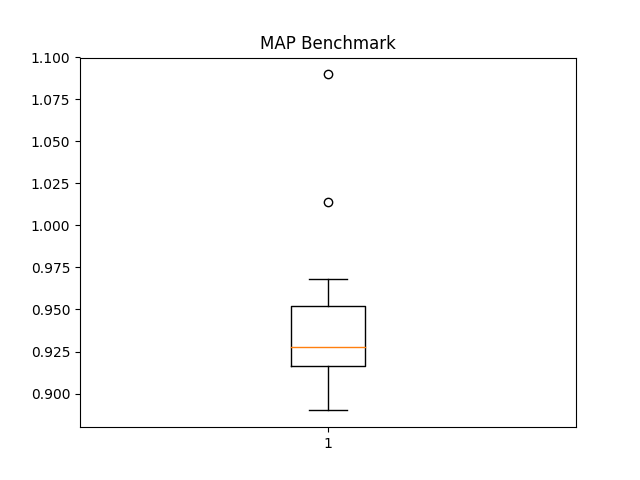
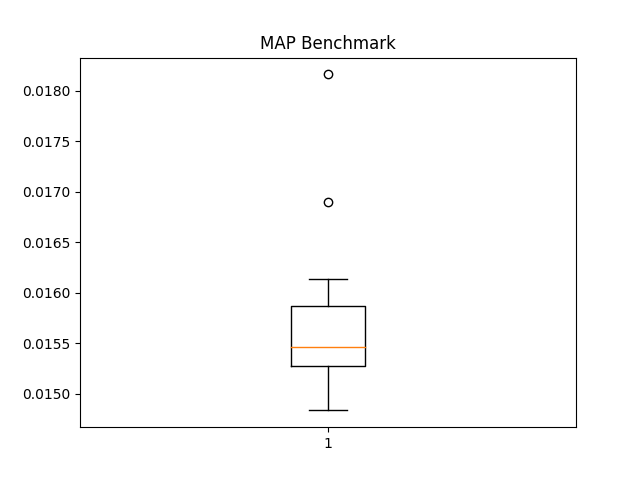
adicionando tratamento para minutos

diff --git a/apps/evaluators/MAP/analyzer/benchmark.py b/apps/evaluators/MAP/analyzer/benchmark.py
@@ -11,53 +11,49 @@ if not os.path.exists(directory):
 
 def bench_gLine():
     allBenchmarks = BenchMAP.objects.all()
-    benchmarkTimes = [divmod((benchmark.finished_at - benchmark.started_at).total_seconds(), 60) for benchmark in allBenchmarks]
-    benchmarkTotalTime = [(benchmark.finished_at - benchmark.started_at).total_seconds() for benchmark in allBenchmarks]
-    benchmarkMean = np.mean(benchmarkTotalTime)
-    benchmarkMedian = np.median(benchmarkTotalTime)
+    benchmarkTimes = [((benchmark.finished_at - benchmark.started_at).total_seconds() / 60.0) for benchmark in allBenchmarks]
+    benchmarkMean = np.mean(benchmarkTimes)
+    benchmarkMedian = np.median(benchmarkTimes)
     plt.figure()
     plt.grid(True)
     plt.title('MAP Benchmark')
     plt.xlabel('ID do MAP')
-    plt.ylabel('Tempo de execução /s')
+    plt.ylabel('Tempo de execução (minutos)')
     plt.text(-0.1, 1, r'Media: ' + str(float("{0:.2f}".format(benchmarkMean))))
     plt.text(-0.1, .8, r'Mediana: ' + str(float("{0:.2f}".format(benchmarkMedian))))
-    plt.plot([benchmark.id for benchmark in allBenchmarks],[benchmark[1] for benchmark in benchmarkTimes])
+    plt.plot([benchmark.id for benchmark in allBenchmarks],[benchmark for benchmark in benchmarkTimes])
     plt.savefig(str(directory) + 'value_gLine' + '-[id]-'+ str(allBenchmarks.last().id) + '.png')
 
 def bench_gScatter(at=5):
     allBenchmarks = BenchMAP.objects.all()
-    benchmarkTimes = [divmod((benchmark.finished_at - benchmark.started_at).total_seconds(), 60) for benchmark in allBenchmarks]
-    benchmarkTotalTime = [(benchmark.finished_at - benchmark.started_at).total_seconds() for benchmark in allBenchmarks]
-    benchmarkMean = np.mean(benchmarkTotalTime)
-    benchmarkMedian = np.median(benchmarkTotalTime)
+    benchmarkTimes = [((benchmark.finished_at - benchmark.started_at).total_seconds() / 60.0) for benchmark in allBenchmarks]
+    benchmarkMean = np.mean(benchmarkTimes)
+    benchmarkMedian = np.median(benchmarkTimes)
     plt.figure()
     plt.grid(True)
     plt.title('MAP Benchmark')
-    plt.ylabel('Tempo de execução /s')
-    plt.xlabel('Tempo de execução /s')
+    plt.ylabel('Tempo de execução (minutos)')
+    plt.xlabel('Tempo de execução (minutos)')
     plt.text(-0.1, 1, r'Media: ' + str(float("{0:.2f}".format(benchmarkMean))))
     plt.text(-0.1, .8, r'Mediana: ' + str(float("{0:.2f}".format(benchmarkMedian))))
-    plt.scatter(benchmarkTotalTime, benchmarkTotalTime)
+    plt.scatter(benchmarkTimes, benchmarkTimes)
     plt.savefig(str(directory) + 'value_gScatter' + '-[id]-'+ str(allBenchmarks.last().id) + '.png')
 
 def bench_gBoxPlot(at=5):
     allBenchmarks = BenchMAP.objects.all()
-    benchmarkTimes = [divmod((benchmark.finished_at - benchmark.started_at).total_seconds(), 60) for benchmark in allBenchmarks]
-    benchmarkTotalTime = [(benchmark.finished_at - benchmark.started_at).total_seconds() for benchmark in allBenchmarks]
+    benchmarkTimes = [((benchmark.finished_at - benchmark.started_at).total_seconds() / 60.0) for benchmark in allBenchmarks]
     plt.figure()
     plt.title('MAP Benchmark')
-    plt.boxplot(benchmarkTotalTime)
+    plt.boxplot(benchmarkTimes)
     plt.savefig(str(directory) + 'value_gBoxPlot' + '-[id]-'+ str(allBenchmarks.last().id) + '.png')
 
 def bench_gBar(at=5):
     allBenchmarks = BenchMAP.objects.all()
-    benchmarkTimes = [divmod((benchmark.finished_at - benchmark.started_at).total_seconds(), 60) for benchmark in allBenchmarks]
-    benchmarkTotalTime = [float("{0:.1f}".format((benchmark.finished_at - benchmark.started_at).total_seconds())) for benchmark in allBenchmarks]
-    benchmarkCountList = Counter(benchmarkTotalTime)
+    benchmarkTimes = [float("{0:.1f}".format((benchmark.finished_at - benchmark.started_at).total_seconds())) for benchmark in allBenchmarks]
+    benchmarkCountList = Counter(benchmarkTimes)
     plt.figure()
     plt.title('MAP Benchmark')
-    plt.ylabel('Tempo execução \s')
+    plt.ylabel('Tempo execução (minutos)')
     plt.xlabel('Quantidade')
     plt.bar(benchmarkCountList.values(),benchmarkCountList.keys())
     plt.savefig(str(directory) + 'value_gBar' + '-[id]-'+ str(allBenchmarks.last().id) + '.png')
